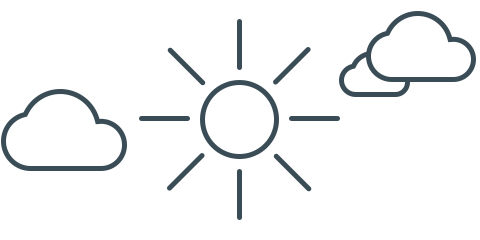
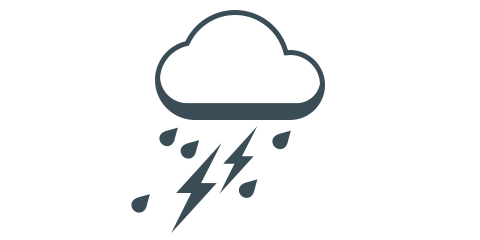
CLOUD-439: better 404 page
<==== Mercurial data ====>
Branch: cloud_portal_default

Changed region(s): [[0.2812, 0.0292, 1.0, 0.9625], [0.0, 0.35, 0.2812, 0.7292], [0.25, 0.8167, 0.3125, 0.9042]]

diff --git a/front_end/app/styles/_theme_palette.scss b/front_end/app/styles/_theme_palette.scss
@@ -26,41 +26,41 @@ $red3:  #521010;
 
 $error:         #D65029;
 
-$dark1: dark(1);
-$dark2: dark(2);
-$dark3: dark(3);
-$dark4: dark(4);
-$dark5: dark(5);
-$dark6: dark(6);
-$dark7: dark(7);
-$dark8: dark(8);
-$dark9: dark(9);
-$dark10: dark(10);
-$dark11: dark(11);
-$dark12: dark(12);
-$dark13: dark(13);
-$dark14: dark(14);
-$dark15: dark(15);
-$dark16: dark(16);
-$dark17: dark(17);
+$dark1: #000000;
+$dark2: #080707;
+$dark3: #0D0E0F;
+$dark4: #121517;
+$dark5: #171C1F;
+$dark6: #1C2327;
+$dark7: #212A2F;
+$dark8: #263137;
+$dark9: #2B383F;
+$dark10: #303F47;
+$dark11: #35464F;
+$dark12: #3A4D57;
+$dark13: #3F545F;
+$dark14: #445B67;
+$dark15: #49626F;
+$dark16: #4E6977;
+$dark17: #53707F;
 
 
 
 
-$light1: light(1);
-$light2: light(2);
-$light3: light(3);
-$light4: light(4);
-$light5: light(5);
-$light6: light(6);
-$light7: light(7);
-$light8: light(8);
-$light9: light(9);
-$light10: light(10);
-$light11: light(11);
-$light12: light(12);
-$light13: light(13);
-$light14: light(14);
-$light15: light(15);
-$light16: light(16);
-$light17: light(17);
+$light1: #FFFFFF;
+$light2: #F5F7F8;
+$light3: #EBEFF1;
+$light4: #E1E7EA;
+$light5: #D7DFE3;
+$light6: #CDD7DC;
+$light7: #C3CFD5;
+$light8: #B9C7CE;
+$light9: #AFBFC7;
+$light10: #A5B7C0;
+$light11: #9BAFB9;
+$light12: #91A7B2;
+$light13: #879FAB;
+$light14: #7D97A4;
+$light15: #738F9D;
+$light16: #698796;
+$light17: #5F7F8F;

diff --git a/front_end/app/views/404.html b/front_end/app/views/404.html
@@ -1,11 +1,7 @@
-<div class="jumbotron">
-    <img src="/static/images/404.png">
+<div class="jumbotron error-page">
+    <img src="/static/images/404.png" srcset="/static/images/404@2x.png 2x">
     <h1>Page not found</h1>
-    <p>
-        There is an error in the URL entered into your web browser. Please check the URL and try again.<br>
-Or maybe the page you are looking for has been moved or deleted.
-    </p>
-    <p><a class="large-link" href="/">Take me home</a></p>
+    <p><a href="/">Take me home</a></p>
 </div>
 
 

diff --git a/front_end/app/styles/main.scss b/front_end/app/styles/main.scss
@@ -395,13 +395,18 @@ td{
   }
 
 }
-.jumbotron .promo-block{
 
-}
-
-.jumbotron a.large-link{
-    font-size: 32px;
-    text-decoration: underline;
+.error-page{
+    color:$dark10;
+    h1{
+        font-size:40px;
+    }
+    p{
+        font-size:24px;
+    }
+    a{
+        text-decoration: underline;
+    }
 }
 
 .cloud-icon img{
